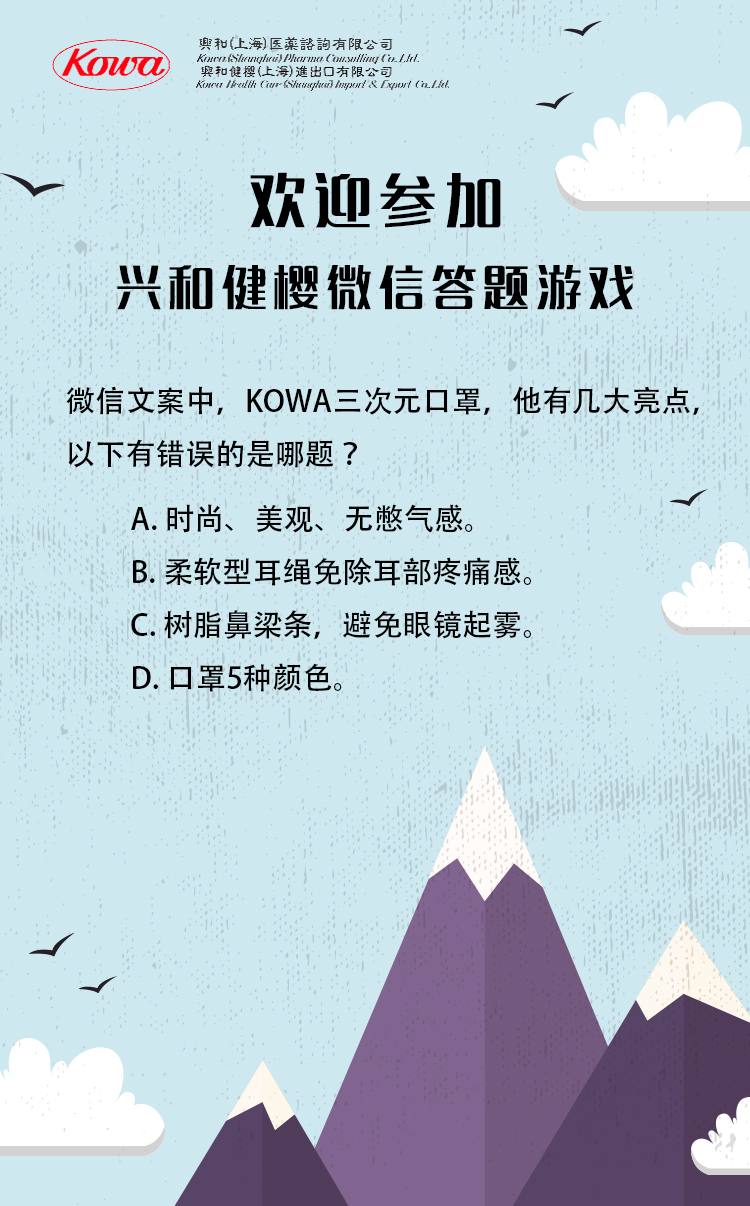
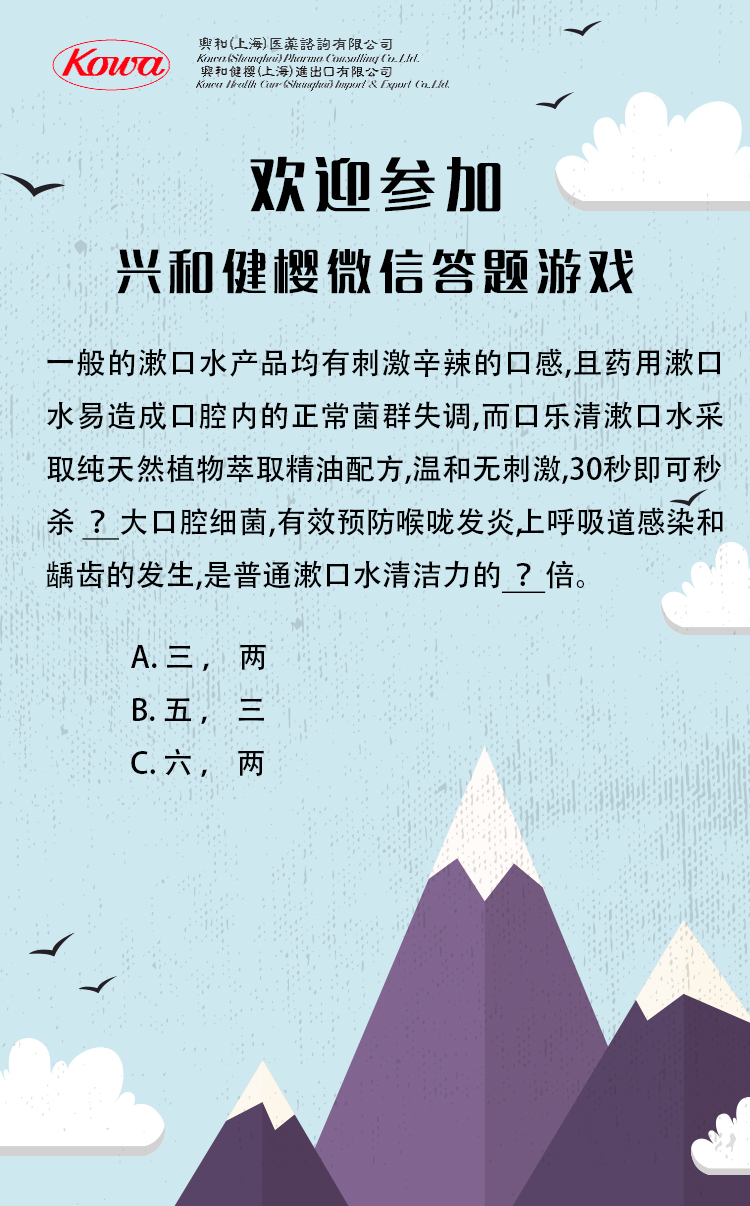
11

Changed region(s): [[0.0613, 0.1227, 0.9813, 0.6443], [0.3067, 0.6136, 0.368, 0.6443]]

diff --git a/wechat/Content/Xinghe1/css/style.css b/wechat/Content/Xinghe1/css/style.css
@@ -3,8 +3,8 @@
 .indexbox{background: url("../images/bg.jpg") no-repeat;background-size: 100%;width:750px;height:1206px;border:1px solid #fff;}
 .indexbox form{width: 575px;margin: 0 auto;}
 .indexbox form input[name=text]{border:none;margin: 10px 0;font-size:26px;text-align: center;background: url("../images/inputbg.png") no-repeat;width: 536px;height: 66px;}
-.indexbox form .text{width: 500px;height: auto;margin-top:262px;}
-.indexbox form .radio{width:30px;height:auto;margin-top: 488px}
+.indexbox form .text{width: 500px;height: auto;margin-top:140px;}
+.indexbox form .radio{width:30px;height:auto;margin-top:624px}
 .indexbox form .radio input{margin:2px 0;}
 .indexbox form input[type="radio"]{
 margin-top: 20px;
